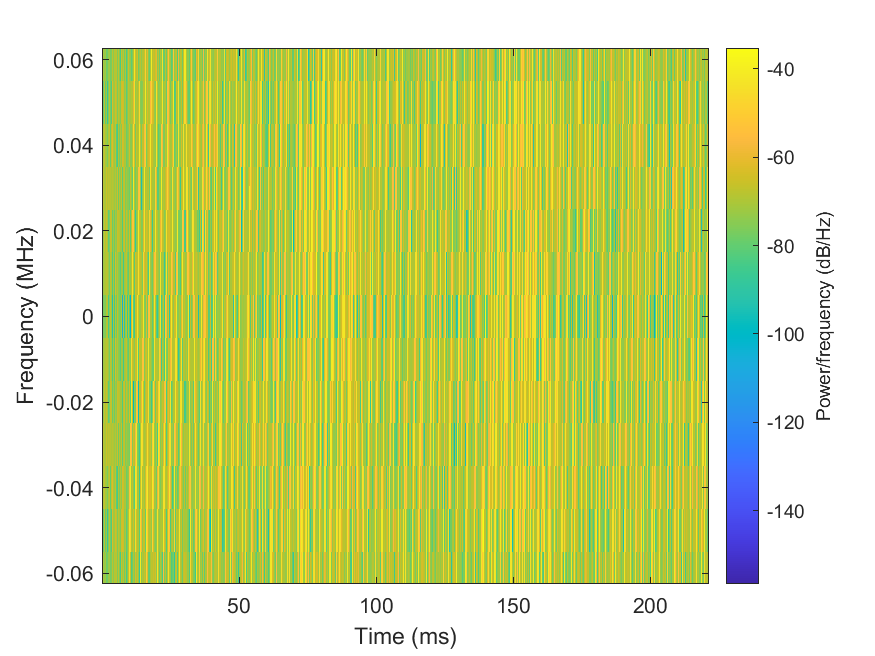
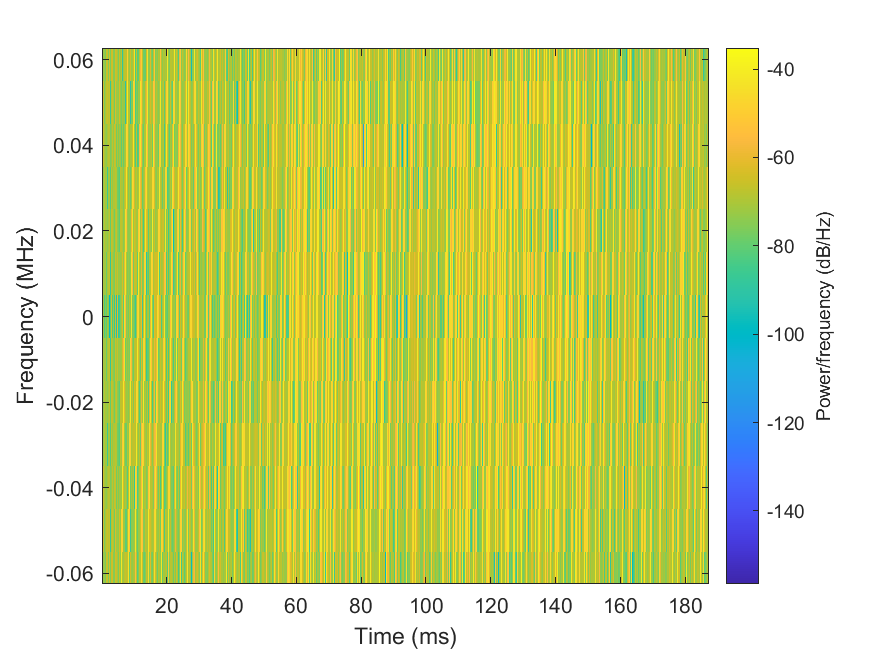
Finished for now

diff --git a/LoRa Mesh/AlignTrack/SchoolProj/LoRa_one_complete_packet_decoding_DFrFT.m b/LoRa Mesh/AlignTrack/SchoolProj/LoRa_one_complete_packet_decoding_DFrFT.m
@@ -61,8 +61,8 @@ tEnds = [];
 SER = [];
 cum_SER = [];
 new_SER = [];
-trials = 100;
-a = 0:0.05:4; % value of 1 should yield same result as regular DFT
+trials = 5;
+a = 0:0.25:4; % value of 1 should yield same result as regular DFT
 
 for trial = 1:1:trials
     trial
@@ -224,37 +224,36 @@ mean(tEnds, 2).'
 % Plot time for each window by trial
 figure
 hold on
-title("Time vs. Window by Trial")
-for i = 1:1:size(tEnds, 1)
-    x = 1:1:trials;
-    plot(x, tEnds(i, :))
-    %legend(windows)
+title("Time vs. Alpha by Trial")
+for i = 1:1:size(tEnds, 2)
+    x = a;
+    y = tEnds(:, i);
+    plot(x, y)
+    %legend(i)
 end
-%saveas(gcf,'Time_vs_Window_by_Trial.png')
+saveas(gcf,'Time_vs_Alpha_by_Trial.png')
 hold off
 
-% Plot SER for each window by trial
-figure
-hold on
-title("SER vs. Window by Trial")
-for i = 1:1:size(SER, 1)
-    x = 1:1:trials;
-    plot(x, sum(SER(i, :, :), 3))
-    %legend(windows)
-end
-%saveas(gcf,'SER_vs_Window_by_Trial.png')
-hold off
+% % Plot SER for each window by trial
+% figure
+% hold on
+% title("SER vs. Alpha by Trial")
+% for i = 1:1:size(SER, 2)
+%     x = 1:1:trials;
+%     plot(x, sum(SER(i, :, :), 3))
+%     %legend(windows)
+% end
+% %saveas(gcf,'SER_vs_Window_by_Trial.png')
+% hold off
 
 % Plot cumulative SER for each window
 figure
 hold on
-title("Cumulative SER vs. Window")
-for i = 1:1:size(cum_SER, 1)
-    x = 1:1:trials;
-    plot(x, cum_SER(i, :))
-    %legend(windows)
-end
-%saveas(gcf,'Cumulative_SER_vs_Window.png')
+title("Avg Cumulative SER vs. Alpha")
+x = a;
+y = mean(cum_SER, 2);
+plot(x, y)
+saveas(gcf,'Avg_Cumulative_SER_vs_Alpha.png')
 hold off
 
 %% END Plot/Display Results
